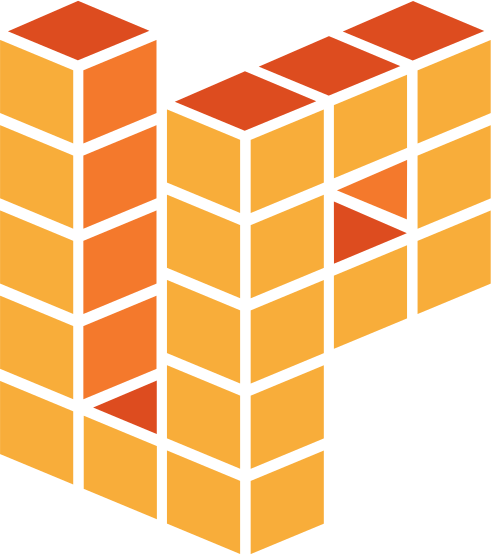
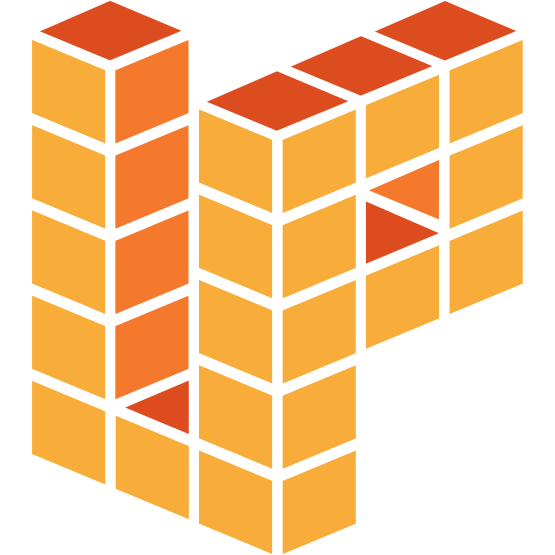
made images squared

Changed region(s): [[0.0, 0.0, 1.0, 1.0], [0.3666, 0.9495, 0.4277, 0.9802]]

diff --git a/index.html b/index.html
@@ -2,7 +2,7 @@
 <html>
 <title>unixpeople.org</title>
 <meta name="viewport" content="width=device-width, initial-scale=1">
-<link rel="shortcut icon" href="unixpeople32x36.png">
+<link rel="shortcut icon" href="unixpeople36x36.png">
 <style type="text/css">
 html {
   width: 100%;
